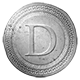
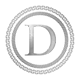
UI Updates

diff --git a/src/qt/bitcoingui.cpp b/src/qt/bitcoingui.cpp
@@ -143,8 +143,8 @@ BitcoinGUI::BitcoinGUI(QWidget *parent):
     resize(1300, 400);
     setWindowTitle(tr("Denarius") + " - " + tr("Wallet"));
 #ifndef Q_OS_MAC
-    qApp->setWindowIcon(QIcon(":icons/denarius"));
-    setWindowIcon(QIcon(":icons/denarius"));
+    qApp->setWindowIcon(QIcon(":icons/denarius128"));
+    setWindowIcon(QIcon(":icons/denarius128"));
 #else
     setUnifiedTitleAndToolBarOnMac(true);
     QApplication::setAttribute(Qt::AA_DontShowIconsInMenus);
